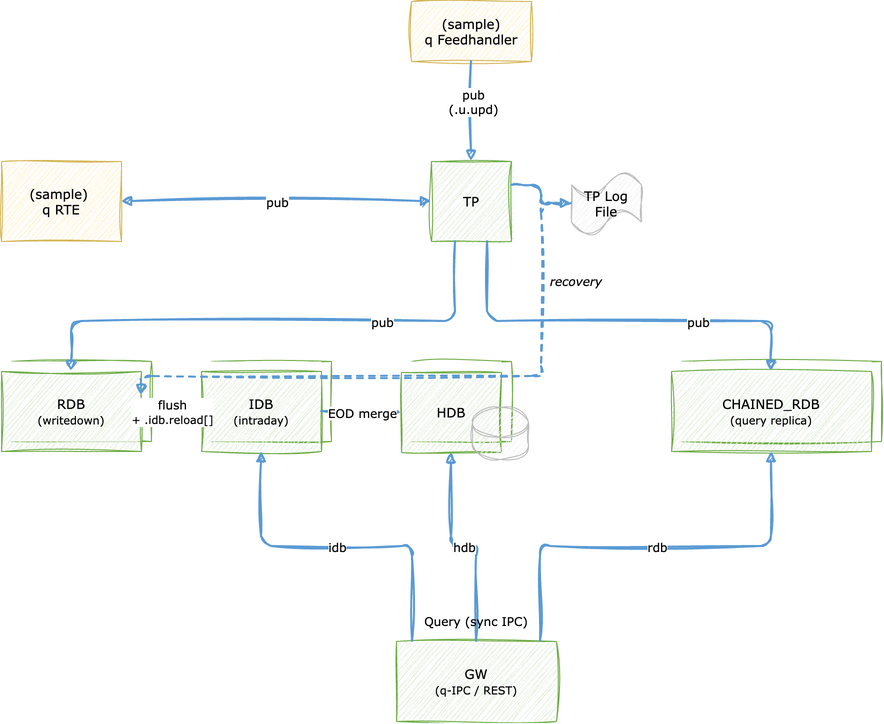
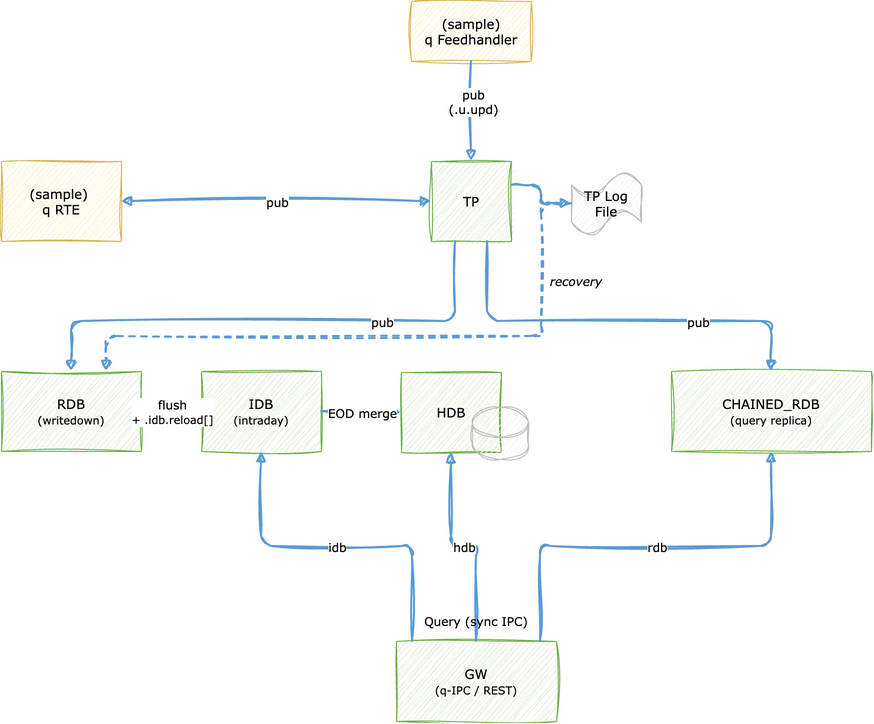
add examples for IDB REST requests; README+diagram fixes

diff --git a/scaled-tick++/README.md b/scaled-tick++/README.md
@@ -1,6 +1,6 @@
 # Scaled Tick++ Reference Architecture
 
-A template for a scalable KDB-X Tick++ architecture with additional layers for custom configuration.
+A deployable template for a scalable KDB-X Tick++ architecture with additional layers for custom configuration.
 
 ## Description
 
@@ -309,6 +309,21 @@ curl "localhost:${REST_PORT}/energy/rdb"
 curl "localhost:${REST_PORT}/energy/rdb?s=BLOWER78_1"
 ```
 
+### /energy/idb
+
+Query the energy table on the IDB (today's intraday-flushed int-partitions).
+
+| Parameter | Required | Type      | Default                    | Description                  |
+|-----------|----------|-----------|----------------------------|------------------------------|
+| t1        | No       | Timespan  | 0D00:00:00.000000000       | Lower time bound             |
+| t2        | No       | Timespan  | 0D23:59:59.999999999       | Upper time bound             |
+| s         | No       | Symbol    | (all)                      | Sym filter (e.g. BLOWER78_1) |
+
+```bash
+curl "localhost:${REST_PORT}/energy/idb"
+curl "localhost:${REST_PORT}/energy/idb?s=BLOWER78_1"
+```
+
 ### /energy/hdb
 
 Query the energy table on the HDB (historical data).
@@ -332,7 +347,7 @@ Returns the schema of the energy table.
 curl "localhost:${REST_PORT}/energy/meta"
 ```
 
-### /weather/rdb, /weather/hdb, /weather/meta
+### /weather/rdb, /weather/idb, /weather/hdb, /weather/meta
 
 Same structure as the energy endpoints, applied to the weather table.
 

diff --git a/tick++/README.md b/tick++/README.md
@@ -1,6 +1,6 @@
 # Tick++ Reference Architecture
 
-A template for KDB-X tick architecture extended with an **intraday writedown** path. Base Tick's single RDB does both ingest and EOD writedown; Tick++ splits those concerns across two RDB processes and introduces an IDB process that serves the flushed data.
+A deployable template for KDB-X tick architecture extended with an **intraday writedown** path. Base Tick's single RDB does both ingest and EOD writedown; Tick++ splits those concerns across two RDB processes and introduces an IDB process that serves the flushed data.
 
 ## Description
 
@@ -270,6 +270,21 @@ curl "localhost:${GW_PORT}/energy/rdb"
 curl "localhost:${GW_PORT}/energy/rdb?s=BLOWER78_1"
 ```
 
+### /energy/idb
+
+Query the energy table on the IDB (today's intraday-flushed int-partitions).
+
+| Parameter | Required | Type      | Default                    | Description                  |
+|-----------|----------|-----------|----------------------------|------------------------------|
+| t1        | No       | Timespan  | 0D00:00:00.000000000       | Lower time bound             |
+| t2        | No       | Timespan  | 0D23:59:59.999999999       | Upper time bound             |
+| s         | No       | Symbol    | (all)                      | Sym filter (e.g. BLOWER78_1) |
+
+```bash
+curl "localhost:${GW_PORT}/energy/idb"
+curl "localhost:${GW_PORT}/energy/idb?s=BLOWER78_1"
+```
+
 ### /energy/hdb
 
 Query the energy table on the HDB (historical data).
@@ -293,7 +308,7 @@ Returns the schema of the energy table.
 curl "localhost:${GW_PORT}/energy/meta"
 ```
 
-### /weather/rdb, /weather/hdb, /weather/meta
+### /weather/rdb, /weather/idb, /weather/hdb, /weather/meta
 
 Same structure as the energy endpoints, applied to the weather table.
 

diff --git a/tick/README.md b/tick/README.md
@@ -1,6 +1,6 @@
 # Tick Reference Architecture
 
-A template for base KDB-X tick architecture.
+A deployable template for base KDB-X tick architecture.
 
 ## Description
 